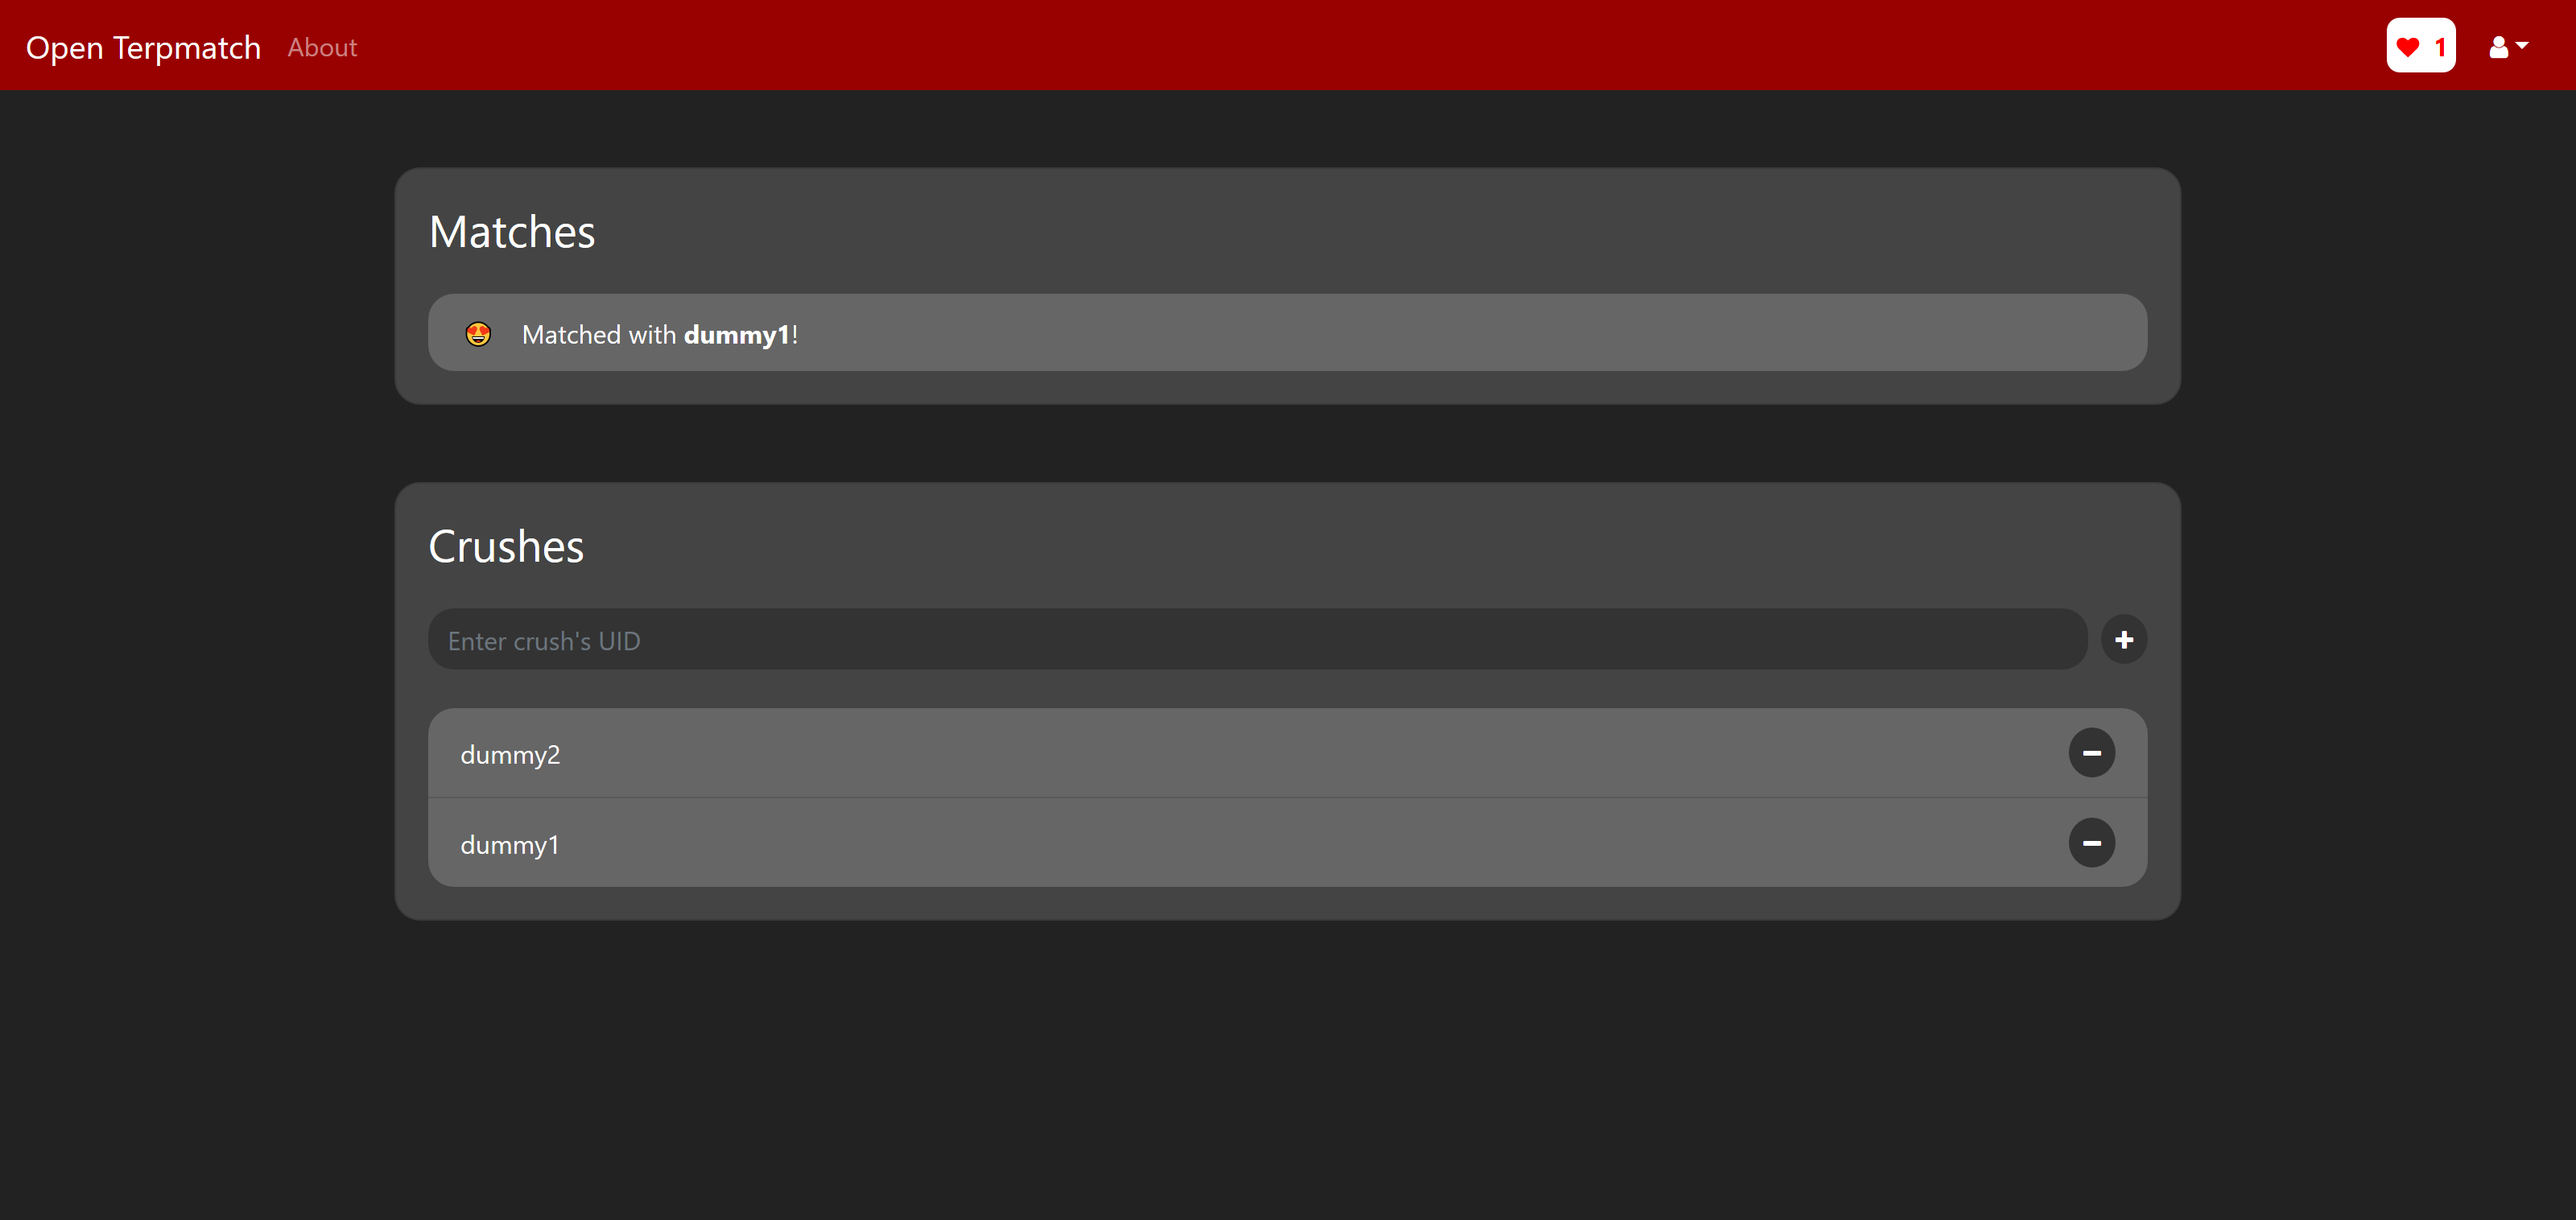
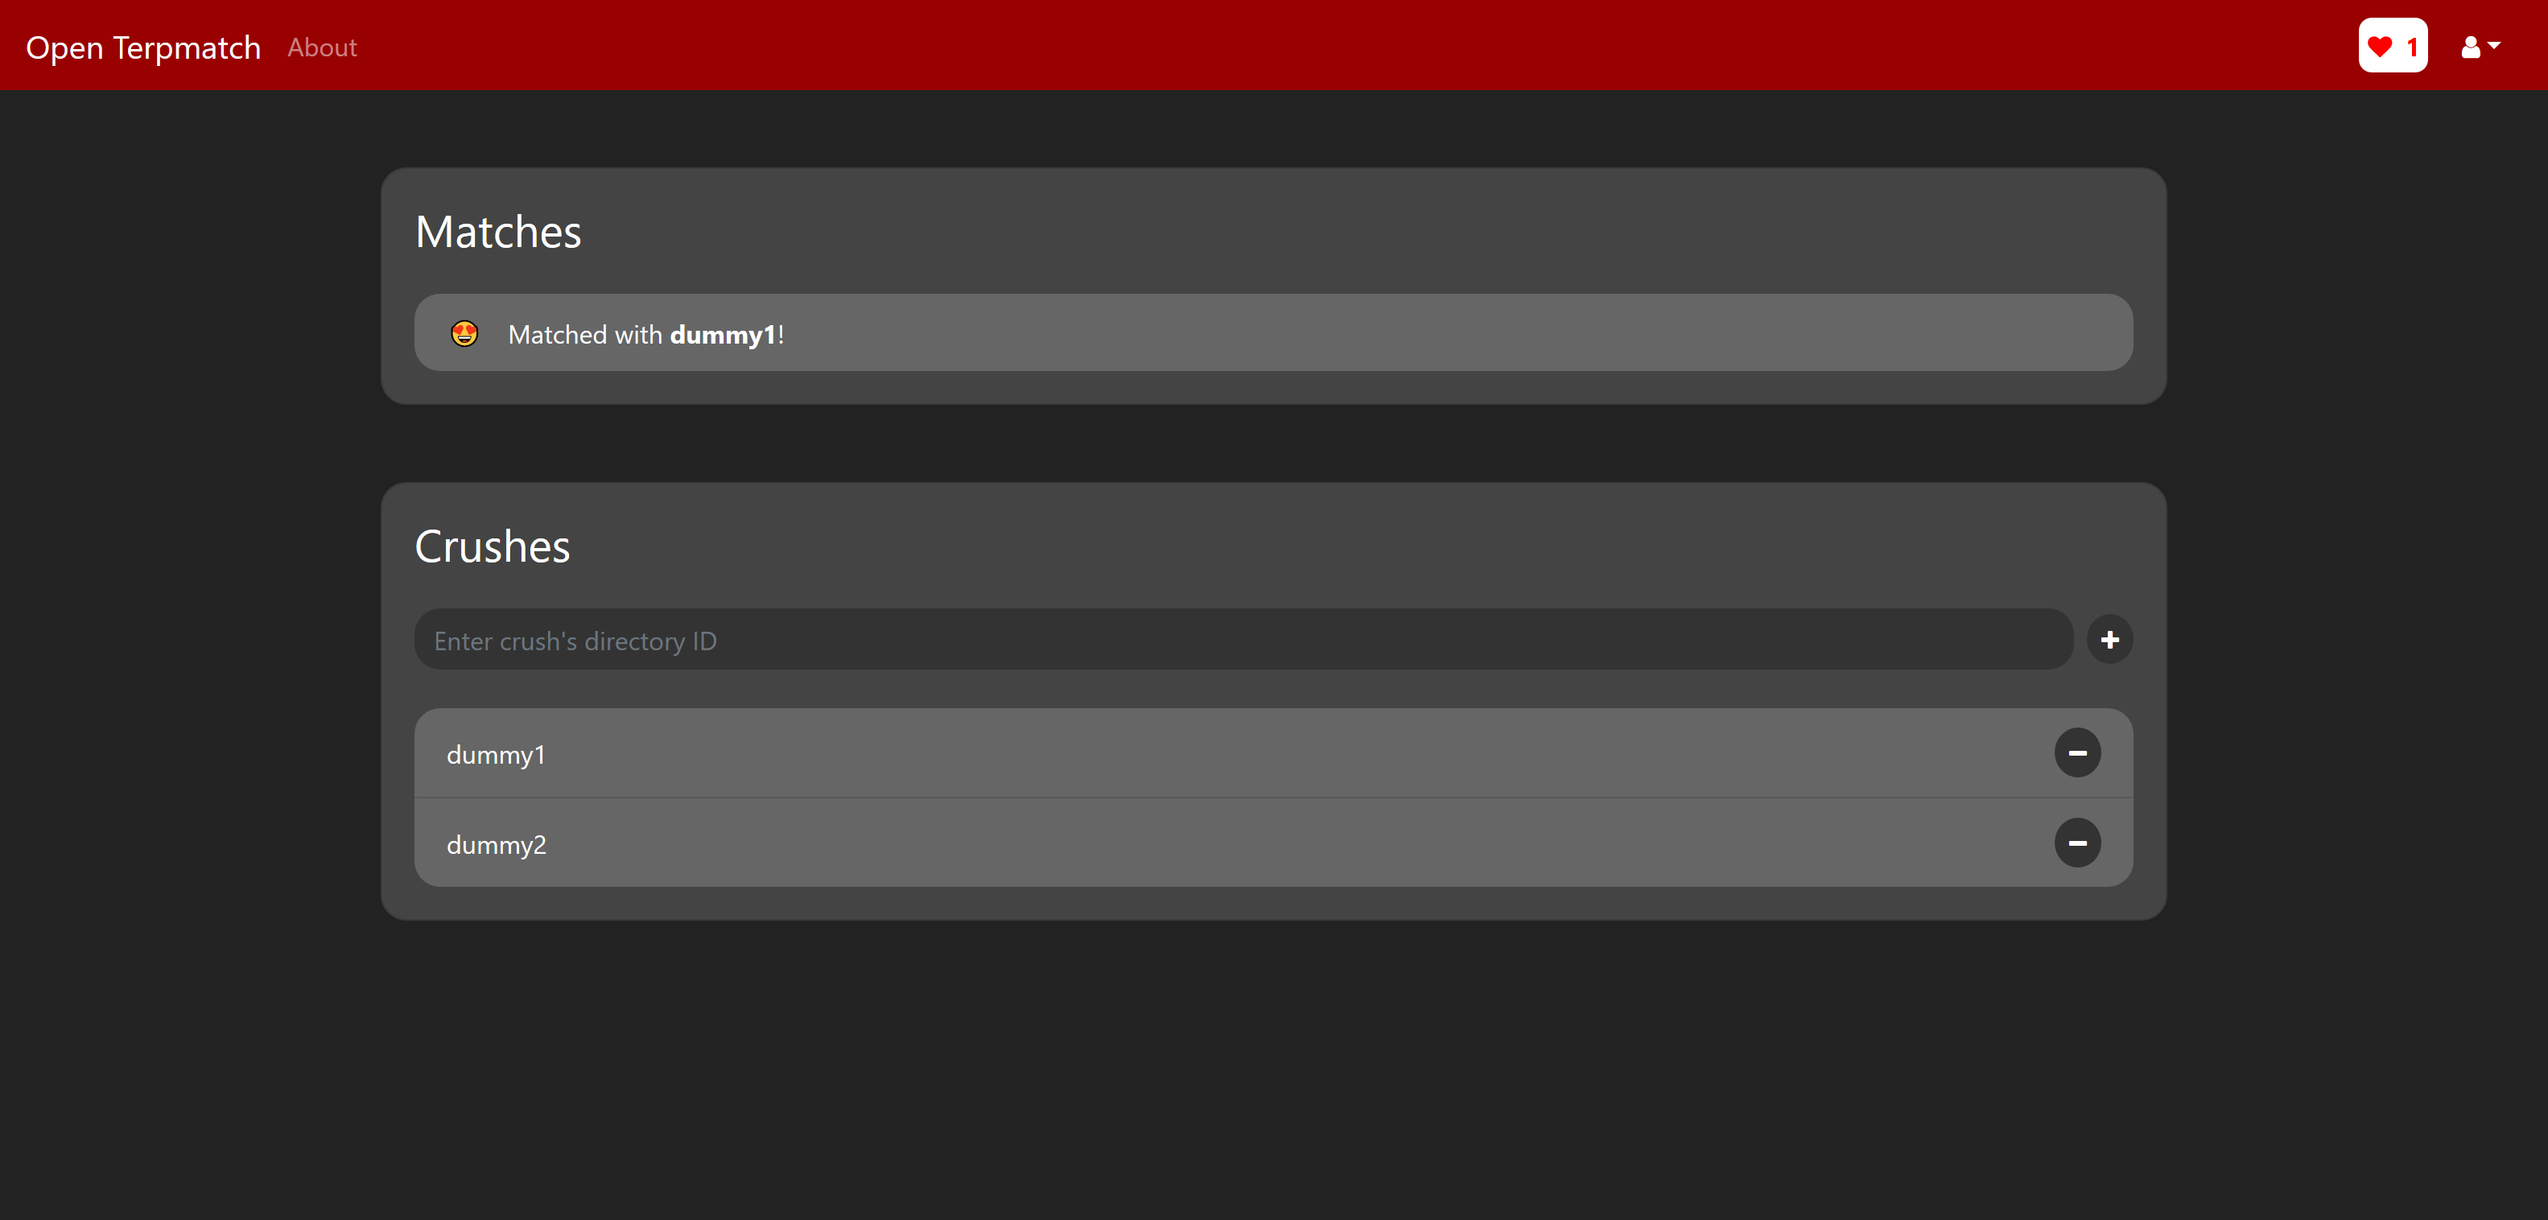
Update docs (#6)
* Update terminology to anonymous crushing

* Add footer and privacy policy template

* Add setup documentation

* Update screenshot

diff --git a/src/app.js b/src/app.js
@@ -102,6 +102,15 @@ app.get('/about', getUserInfo, (req, res) => {
     });
 });
 
+// Privacy
+app.get('/privacy', getUserInfo, (req, res) => {
+    res.render('privacy', {
+        title: 'Privacy Policy',
+        user: req.userInfo.user,
+        numCrushers: req.userInfo.numCrushers,
+    });
+});
+
 // Dashboard
 app.get('/dashboard', authorizeCAS, authorizeAccount, getUserInfo, async (req, res) => {
     res.render('dashboard', {

diff --git a/public/css/style.css b/public/css/style.css
@@ -3,6 +3,13 @@ body {
     color: white;
 }
 
+a {
+    color: #ffffff;
+}
+a:hover {
+    color: #cccccc;
+}
+
 nav.navbar {
     background-color: #990000;
 }
@@ -158,4 +165,12 @@ nav.navbar {
         opacity: 1;
         transform: translateY(0);
     }
+}
+
+.footer {
+    left: 0;
+    bottom: 0;
+    width: 100%;
+    background-color: #333333;
+    color: white;
 }

diff --git a/docs/SETUP.md b/docs/SETUP.md
@@ -1,0 +1,86 @@
+# Setup
+
+Documentation for setting up and deploying Open Terpmatch
+
+
+## Setting Up Twilio
+
+### Pre-requisites
+  - Register for a Twilio account if you do not already have one
+
+### Instructions
+  - Retrieve your Twilio account's SID. This will be `TWILIO_ACCOUNT_SID`.
+  - Retieve your Twilio account's authentication token. This will be `TWILIO_AUTH_TOKEN`.
+  - Create a Twilio Verify service and retrieve the service id. This will be `TWILIO_VERIFY_SERVICE`.
+  - Register for a phone number to verify users via SMS. This number will be `TWILIO_NUMBER`.
+    - The phone number will be formated as `+1XXXXXXXXXX` (assuming US phone number)
+
+
+## Setting Up SendGrid
+
+### Pre-requisites
+  - Register for a SendGrid account if you do not already have one
+  - Twilio setup
+
+### Instructions
+  - Retrieve your SendGrid API key. This will be `SENDGRID_API_KEY`.
+  - Create and authenticate a sender either through domain or single-sender authentication
+    - For a domain authenticated sender, decide on a sender email address such as `noreply@example.com`. This will be `SENDGRID_SENDER`.
+    - For a single-sender, the selected email will be `SENDGRID_SENDER`.
+  - Create a new dynamic template for verification and copy-paste the contents of `docs/verifyTemplate.html` into it
+    - **NOTE**: The domain name listed in the HTML template will need to be changed to your site's domain name
+  - Add an email integration from the Settings page of your Twilio Verify service and fill out the form with your credentials. This will allow
+    you to use SendGrid to verify your users via email.
+
+
+## Setting Up MongoDB
+
+### Pre-requisites
+  - Access to a MongoDB service
+
+### Instructions
+  - Retrieve your MongoDB configuration
+    - If database is local, `MONGO_HOST` will be `localhost`.
+    - If database is production, `MONGO_HOST` will be the host specified by your provider. You will also need to
+      provide your database's user and password in the `MONGO_USER` and `MONGO_PASSWORD` environment variables respectively.
+  - Once MongoDB has been configured for your environment, create a database for Open Terpmatch. This will be `MONGO_DATABASE`.
+
+**NOTE**: The example deployment uses MongoDB Atlas as a convenient and cost-free production database.
+
+## Local Development
+
+### Pre-requisites
+  - Node and Yarn
+  - MongoDB setup
+  - Twilio setup
+  - SendGrid setup
+
+### Instructions
+Copy and rename `docs/example.env` to `.env` at the repo root.
+Replace all the environment variables with your configuration.
+
+Run the following to install all packages and start the server:
+
+    yarn install
+    yarn start
+
+For rapid development, it may be more practical to run the server with hot-reload using nodemon:
+
+    nodemon src/server.js
+
+## Deployment to Heroku
+
+### Pre-requisites
+  - Production MongoDB setup
+  - Twilio setup
+  - SendGrid setup
+
+### Instructions
+  - Create a Heroku account if you do not already have one
+  - Create an app with name `<APP_NAME>`
+  - Copy-paste all variables from `.env` into the app's config on the Settings page
+
+The repository can be linked and deployed by running the following at the repo root:
+
+    heroku git:remote <APP_NAME>
+    git push heroku master

diff --git a/README.md b/README.md
@@ -3,7 +3,7 @@
 [![CircleCI](https://img.shields.io/circleci/build/github/jasmaa/open-terpmatch)](https://app.circleci.com/pipelines/github/jasmaa/open-terpmatch)
 [![Codecov](https://img.shields.io/codecov/c/github/jasmaa/open-terpmatch)](https://codecov.io/gh/jasmaa/open-terpmatch)
 
-Open-source anonymous UMD matching
+Open-source anonymous UMD crushing
 
 ![Landing page screenshot](docs/screenshot_01.png)
 
@@ -14,10 +14,4 @@ allowing anyone in the future to re-deploy this site as well as contribute to it
 
 ## Setup
 
-### Local Development
-    yarn install
-    yarn start
-
-### Deploy to Heroku
-    heroku git:remote <APP_NAME>
-    git push heroku master
+Refer to [setup documentation](docs/SETUP.md) for detailed instructions.
